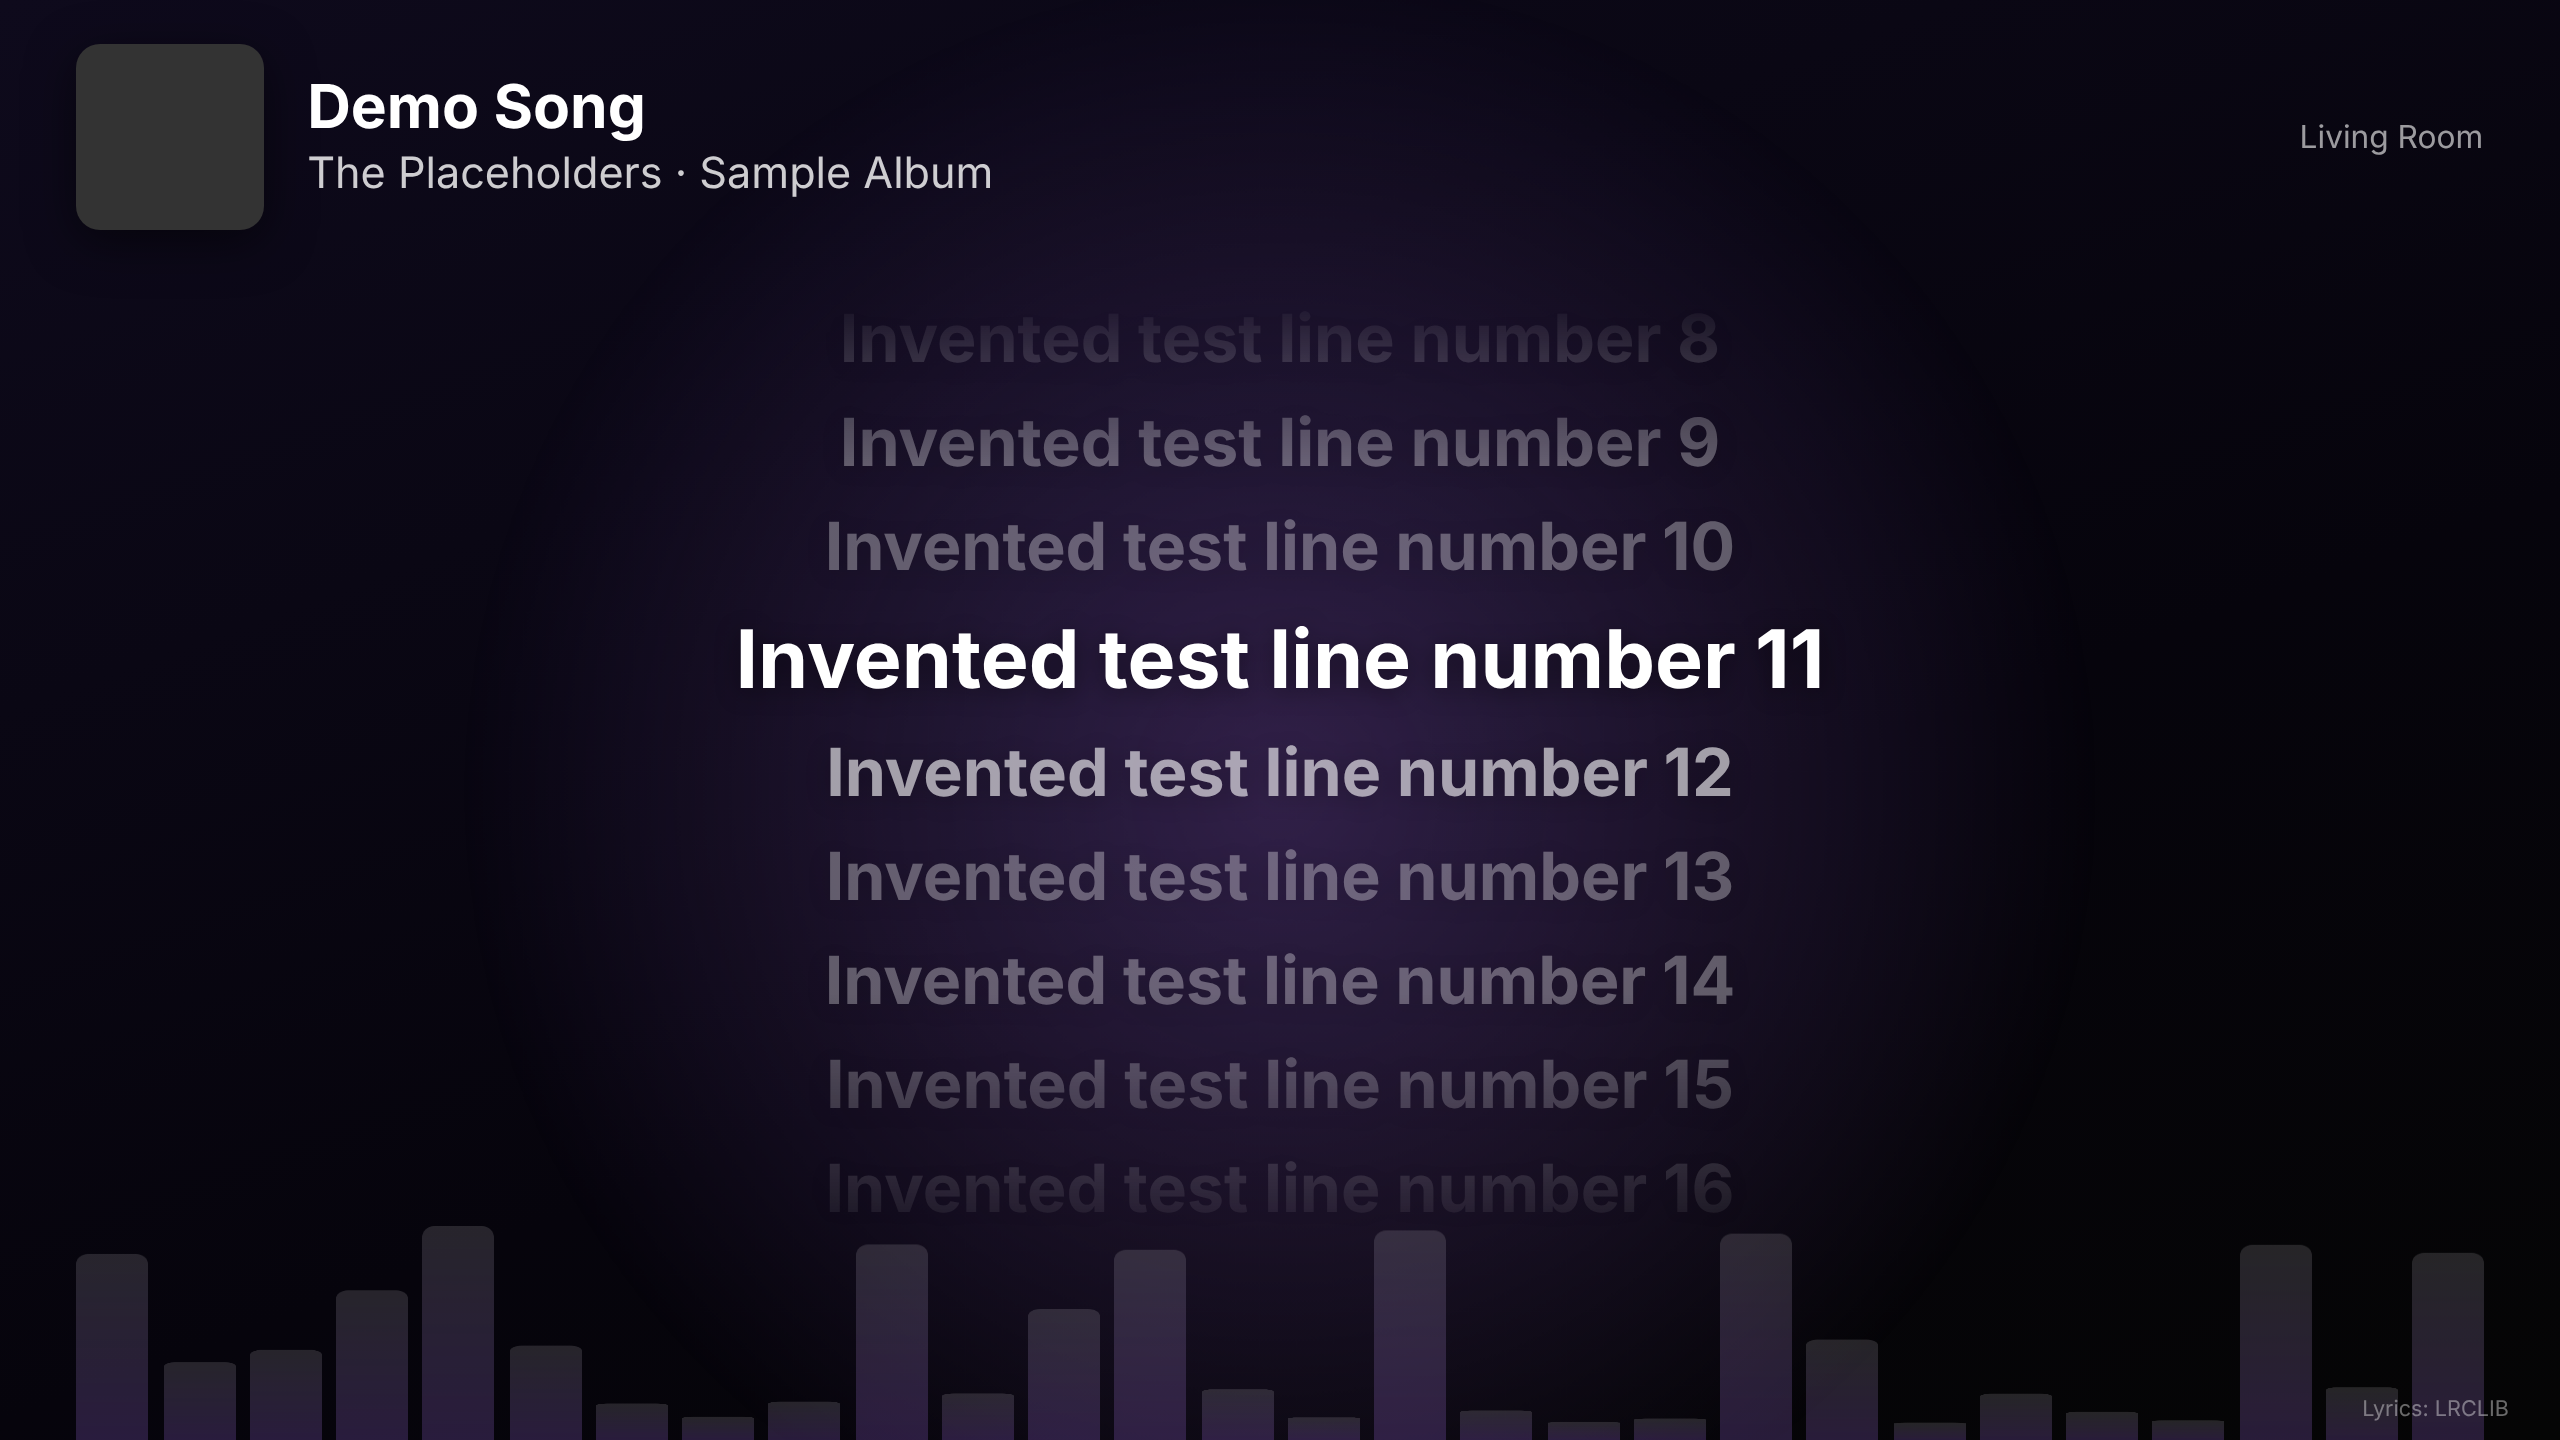
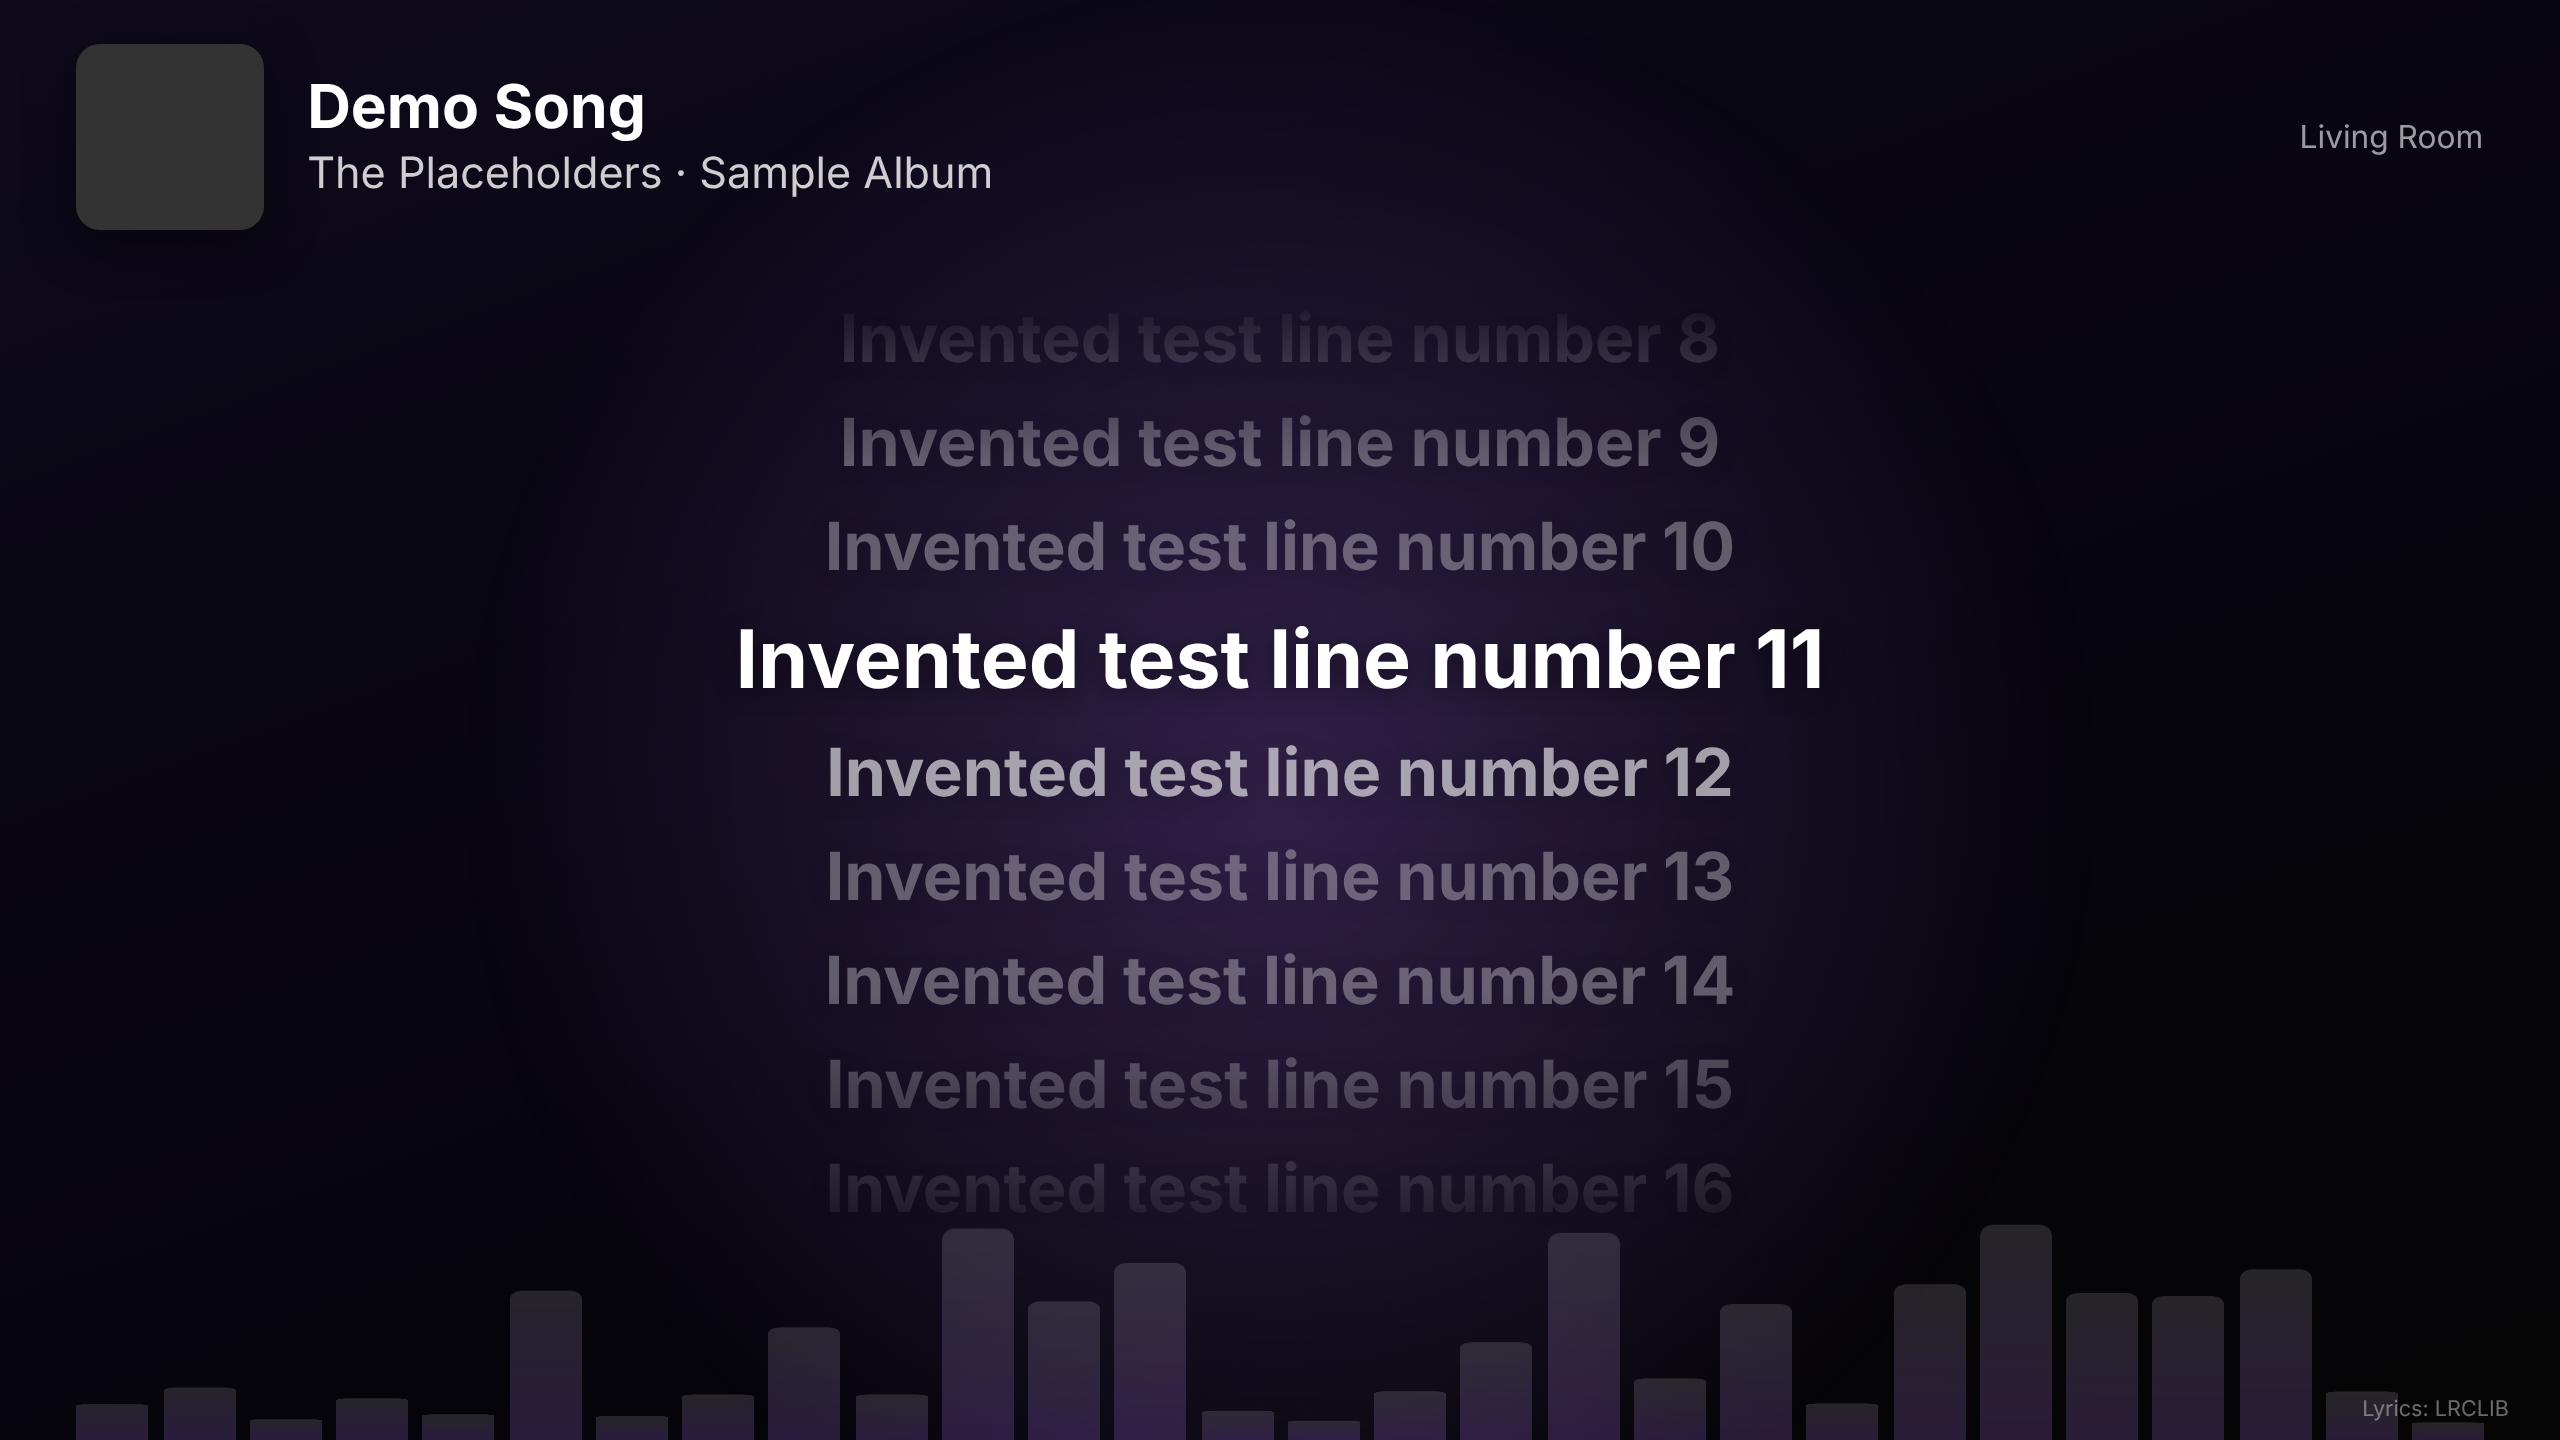
Add option to hide the music bars
Claude-Session: https://claude.ai/code/session_01TAVs71HgAkwueEpPGSQMh7

diff --git a/lyrics-party-card.js b/lyrics-party-card.js
@@ -10,6 +10,7 @@
  * offset: 0.3                          # seconds; lyrics lead the audio slightly
  * visuals: full | lite | off
  * font_scale: 1
+ * bars: true                          # music bars along the bottom
  * background: art | color             # blurred album art, or color only
  * close_path: /lovelace              # where the touch-screen X goes
  * URL override: ?room=media_player.kitchen
@@ -92,7 +93,7 @@ class LyricsPartyCard extends HTMLElement {
   static getStubConfig() { return { layout: 'card', visuals: 'full', offset: 0.3 }; }
 
   setConfig(config) {
-    const c = Object.assign({ offset: 0.3, visuals: 'full', layout: 'fullscreen', height: '480px', font_scale: 1, background: 'art' }, config || {});
+    const c = Object.assign({ offset: 0.3, visuals: 'full', layout: 'fullscreen', height: '480px', font_scale: 1, background: 'art', bars: true }, config || {});
     if (!Array.isArray(c.entities) || !c.entities.length) delete c.entities;
     this._config = c;
     this._key = null;
@@ -210,6 +211,7 @@ class LyricsPartyCard extends HTMLElement {
   .shade{position:absolute;inset:0;background:radial-gradient(ellipse at 50% 45%,rgba(0,0,0,.2),rgba(0,0,0,.65));opacity:0;transition:opacity 1.2s ease;}
   .bgart.on~.shade{opacity:1;}
   .noart .bgart,.noart .shade{display:none;}
+  .nobars .bars{display:none;}
   .glow{position:absolute;width:calc(var(--vmax)*70);height:calc(var(--vmax)*70);left:50%;top:55%;transform:translate(-50%,-50%);
     border-radius:50%;opacity:.45;transition:background 1.5s ease;animation:breathe 6s ease-in-out infinite;}
   @keyframes breathe{0%,100%{transform:translate(-50%,-50%) scale(.9)}50%{transform:translate(-50%,-50%) scale(1.08)}}
@@ -304,6 +306,7 @@ class LyricsPartyCard extends HTMLElement {
     e.wrap.classList.toggle('off', c.visuals === 'off');
     e.wrap.classList.toggle('card', card);
     e.wrap.classList.toggle('noart', c.background === 'color');
+    e.wrap.classList.toggle('nobars', c.bars === false);
     e.wrap.style.height = card ? String(c.height) : '';
     e.wrap.style.setProperty('--fs', +c.font_scale || 1);
   }
@@ -491,6 +494,7 @@ const LP_LABELS = {
   height: 'Card height (card layout only)',
   visuals: 'Visuals',
   background: 'Background',
+  bars: 'Music bars',
   offset: 'Lyrics offset',
   font_scale: 'Lyrics size'
 };
@@ -505,6 +509,7 @@ const LP_SCHEMA = [
     { value: 'full', label: 'Full' }, { value: 'lite', label: 'Lite (slower devices)' }, { value: 'off', label: 'Off' }] } } },
   { name: 'background', selector: { select: { mode: 'dropdown', options: [
     { value: 'art', label: 'Blurred album art' }, { value: 'color', label: 'Color only' }] } } },
+  { name: 'bars', selector: { boolean: {} } },
   { name: 'offset', selector: { number: { min: -5, max: 5, step: 0.1, mode: 'box', unit_of_measurement: 's' } } },
   { name: 'font_scale', selector: { number: { min: 0.6, max: 2, step: 0.1, mode: 'slider' } } }
 ];
@@ -530,7 +535,7 @@ class LyricsPartyCardEditor extends HTMLElement {
       this.appendChild(this._form);
     }
     this._form.hass = this._hass;
-    this._form.data = Object.assign({ layout: 'fullscreen', visuals: 'full', background: 'art', offset: 0.3, font_scale: 1 }, this._config);
+    this._form.data = Object.assign({ layout: 'fullscreen', visuals: 'full', background: 'art', bars: true, offset: 0.3, font_scale: 1 }, this._config);
   }
 }
 

diff --git a/README.md b/README.md
@@ -51,6 +51,7 @@ visuals: lite
 | `entities` | none | List of players to follow. |
 | `layout` | `fullscreen` | `card` or `fullscreen`. Use `fullscreen` only in a Panel view. |
 | `height` | `480px` | Card height. Applies to `layout: card`. |
+| `bars` | `true` | Set to `false` to hide the music bars along the bottom. |
 | `offset` | `0.3` | Seconds to shift the lyrics. Raise it if lyrics run late. |
 | `visuals` | `full` | `full`, `lite`, or `off`. |
 | `background` | `art` | `art` shows the album cover blurred behind the lyrics. `color` uses colors only. |
